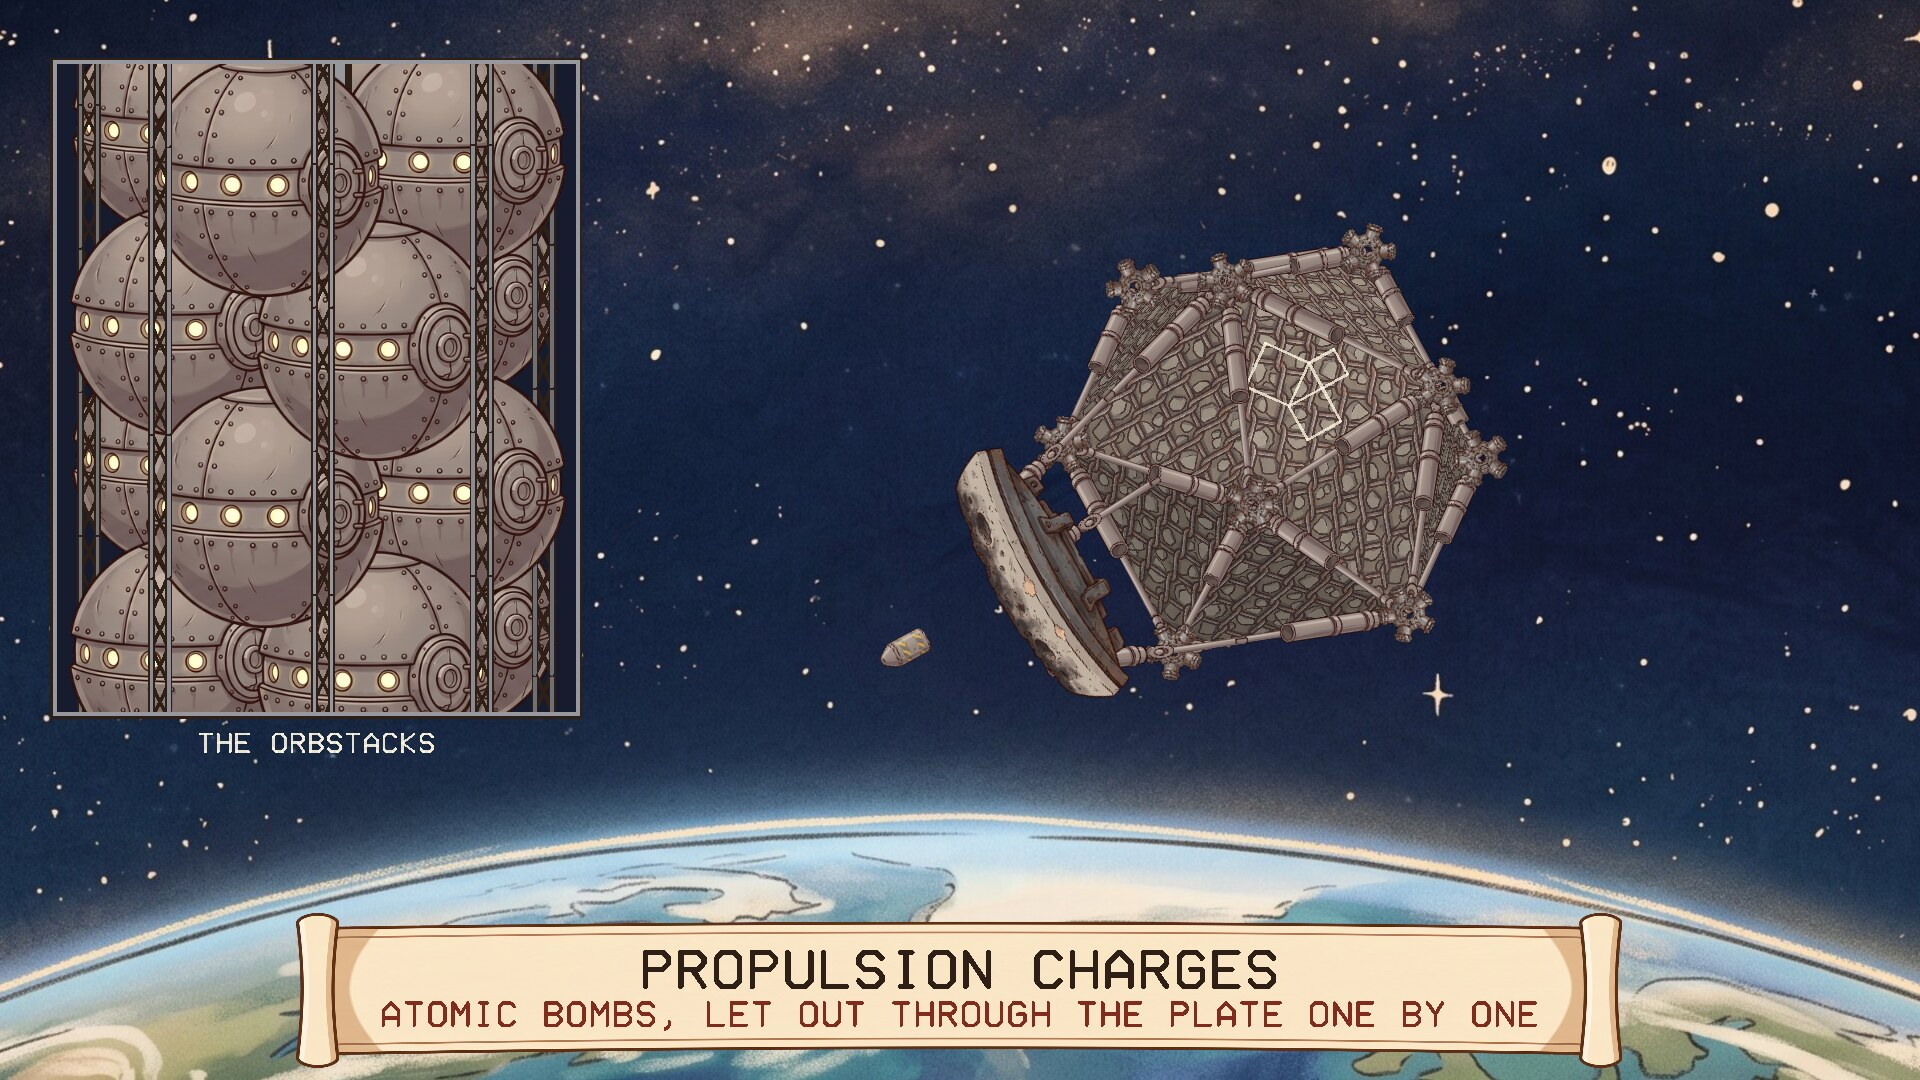
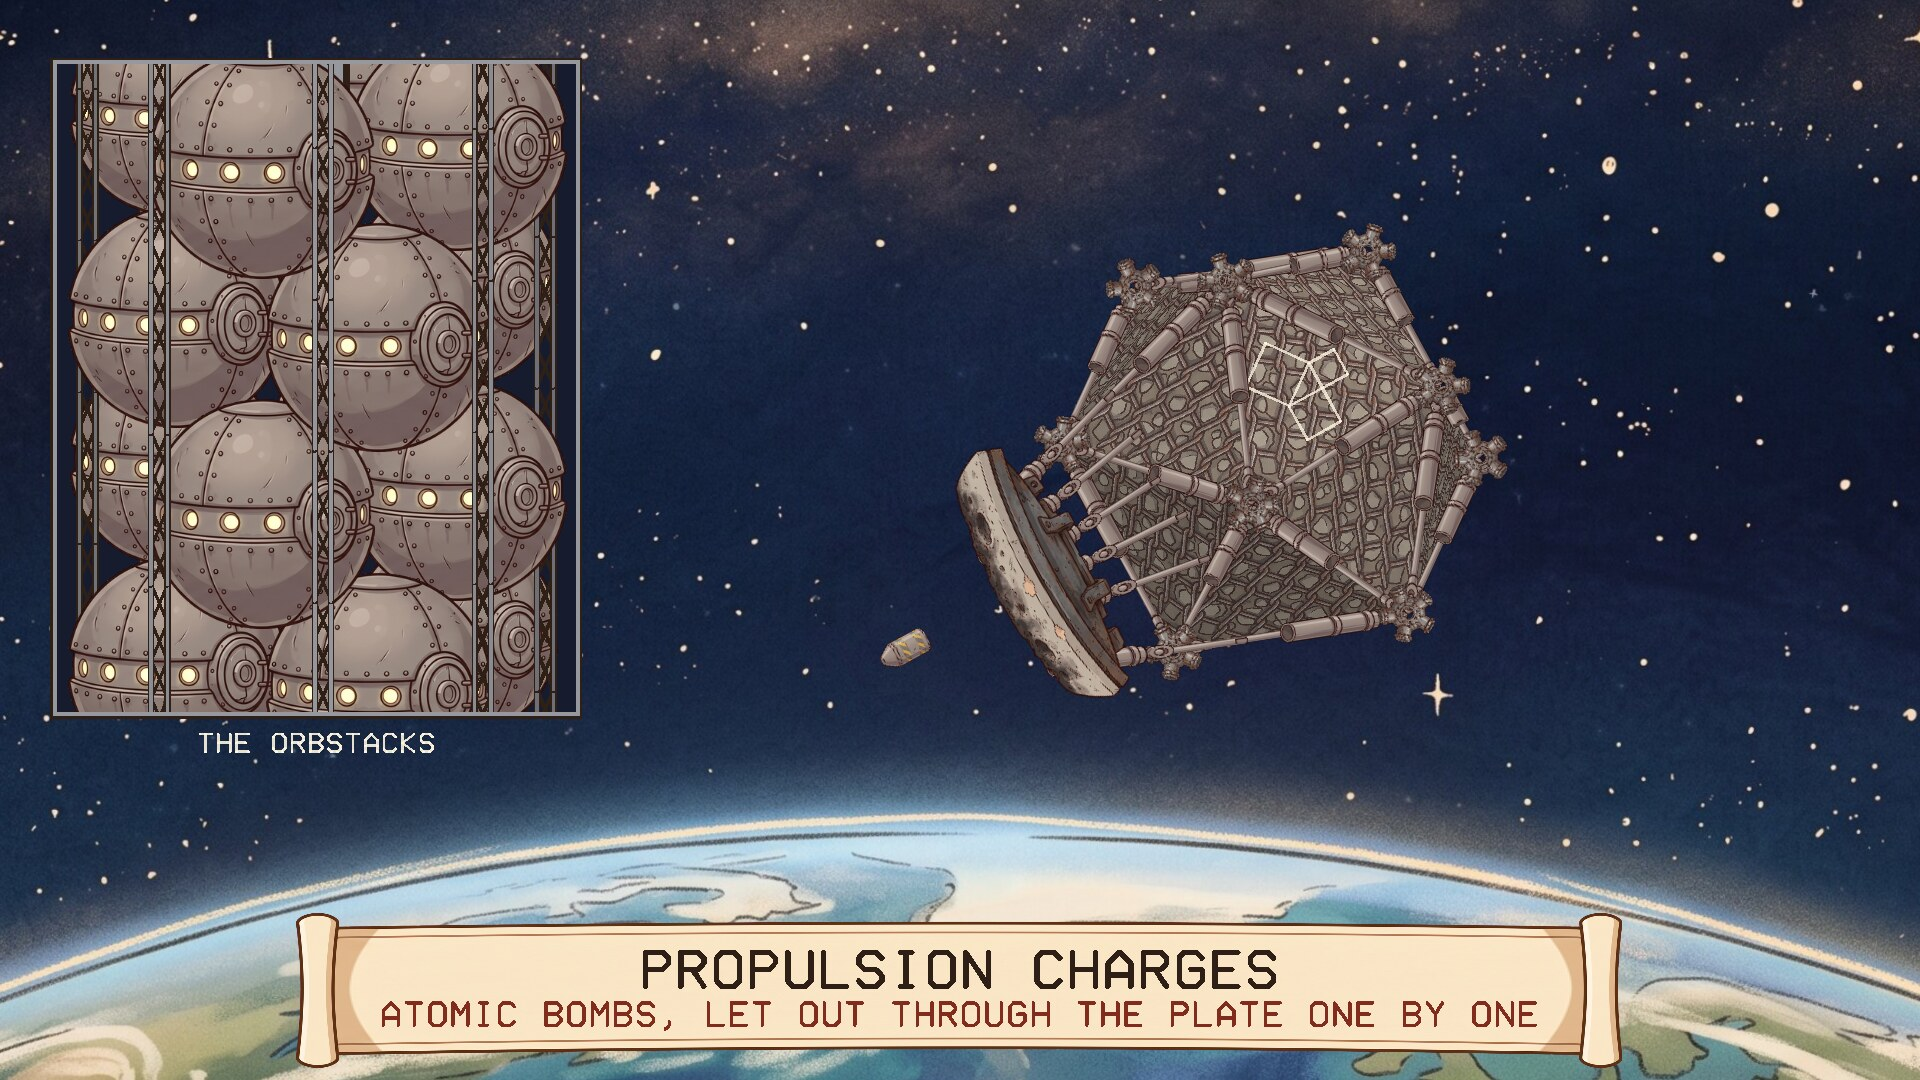
A cut-open orb with houseboats, tubes to the Core, a ring of shock absorbers behind the plate

diff --git a/src/urnud.c b/src/urnud.c
@@ -54,6 +54,7 @@ ART(joint, "joint.png")
 ART(gravel, "gravel.jpg")
 ART(plate, "plate.png")
 ART(orb, "orb.png")
+ART(orbcut, "orbcut.png")
 ART(hub, "hub.png")
 ART(charge, "charge.png")
 ART(cyl, "cyl.png")
@@ -62,7 +63,7 @@ ART(flash, "flash.jpg")
 ART(plasma, "plasma.jpg")
 ART(vapour, "vapour.jpg")
 
-enum { SP_SPACE, SP_BANNER, SP_JOINT, SP_GRAVEL, SP_PLATE, SP_ORB, SP_HUB, SP_CHARGE, SP_CYL, SP_ROD, SP_FLASH, SP_PLASMA, SP_VAPOUR, NSPRITE };
+enum { SP_SPACE, SP_BANNER, SP_JOINT, SP_GRAVEL, SP_PLATE, SP_ORB, SP_ORBCUT, SP_HUB, SP_CHARGE, SP_CYL, SP_ROD, SP_FLASH, SP_PLASMA, SP_VAPOUR, NSPRITE };
 static struct { const unsigned char *file, *end; int w, h; unsigned char *px; } sprite[NSPRITE] = {
     {art_space, art_space_end},
     {art_banner, art_banner_end},
@@ -70,6 +71,7 @@ static struct { const unsigned char *file, *end; int w, h; unsigned char *px; } 
     {art_gravel, art_gravel_end},
     {art_plate, art_plate_end},
     {art_orb, art_orb_end},
+    {art_orbcut, art_orbcut_end},
     {art_hub, art_hub_end},
     {art_charge, art_charge_end},
     {art_cyl, art_cyl_end},
@@ -555,7 +557,7 @@ static void draw_core(double px, double py, double pw, double ph)
     double cx = px + pw / 2, cy = py + ph / 2;
     /* we look from the side and a little from above; z is towards us */
     double tilt = 1.3, ay = -sin(tilt), az = cos(tilt), vy = az, vz = sin(tilt);
-    double rho = ph / 5.7, reach = rho * 1.4142 * 0.9, gap = rho * 1.682 * 0.9, tower = rho * 2.0;
+    double rho = ph / 6.0, reach = rho * 1.4142, gap = rho * 1.682, tower = rho * 2.12;
     enum { NSEG = 12, NTOW = 8, TSEG = 6, NITEM = 16 + NSEG + NTOW * TSEG };
     Item it[NITEM];
     int ni = 0;
@@ -576,8 +578,12 @@ static void draw_core(double px, double py, double pw, double ph)
             double along = (n / 4 - 1.5) * gap, a = spin + (n % 4) * M_PI / 2 + (n / 4) * M_PI / 4;
             double x = cx + cos(a) * reach, y = cy + ay * along + vy * sin(a) * reach;
             double size = 1 + 0.07 * sin(a);
+            /* the tube that joins it to the Core */
+            line(cx, cy + ay * along, x, y, rho * 0.36, col(INK, 1));
+            line(cx, cy + ay * along, x, y, rho * 0.26, col(STEEL, 1));
             flush(ren);
-            turned(SP_ORB, x, y, 2 * rho * size, 0);
+            /* one orb is cut open on the side that faces us as it comes round */
+            turned(n == 9 && sin(a) > 0 ? SP_ORBCUT : SP_ORB, x, y, 2 * rho * size, 0);
         } else if (it[i].kind == 1) {
             double t0 = -ce + it[i].n * 2 * ce / NSEG - 0.5, t1 = t0 + 2 * ce / NSEG + 1;
             line(cx, cy + ay * t0, cx, cy + ay * t1, rho * 0.62, col(INK, 1));
@@ -630,9 +636,12 @@ static void draw_scene(SDL_Renderer *r, int w, int h)
     draw_frame();
     double px = plate_x;
     /* the plate's shock absorbers, from its back to the corners of the stern face */
-    for (int i = 0; i < 3; i++) {
-        double from[3] = {px + 0.035, pos[i][1] * 0.82, pos[i][2] * 0.82};
+    for (int i = 0; i < 3; i++) { /* drawn in a ring of six: one to each corner and one to the middle of each edge */
+        int j = (i + 1) % 3;
+        double mid[3] = {(pos[i][0] + pos[j][0]) / 2, (pos[i][1] + pos[j][1]) / 2, (pos[i][2] + pos[j][2]) / 2};
+        double from[3] = {px + 0.035, pos[i][1] * 0.82, pos[i][2] * 0.82}, fromm[3] = {px + 0.035, mid[1] * 0.82, mid[2] * 0.82};
         strut(from, pos[i]);
+        strut(fromm, mid);
     }
     /* charges on their way out */
     for (int i = 0; i < NFLY; i++) if (fly[i] >= 0) {

diff --git a/tools/make_sprites.py b/tools/make_sprites.py
@@ -79,6 +79,9 @@ def main():
     p = trim(key(load(f"{SRC}/plate.jpeg")))
     save(p, round(p.shape[1] * 700 / p.shape[0]), 700, f"{OUT}/plate.png")
     print("plate")
+    p = trim(key(load(f"{SRC}/orbcut.jpeg")))  # an orb cut open, with the water and the houseboats
+    save(p, round(p.shape[1] * 460 / p.shape[0]), 460, f"{OUT}/orbcut.png")
+    print("orbcut")
     # the frame: the joint at each corner, and the gravel skin as a square of texture
     got = pieces(key(load(f"{SRC}/frame.jpeg")), 1)
     j = trim(got[0])

diff --git a/README.md b/README.md
@@ -24,13 +24,15 @@ One change of course, about a minute and a half, then another at a different ang
 - **In orbit.** The ship coasts and Arbre slides by underneath. A panel shows the
   orbstacks inside, close to: four levels of four orbs about the Core, the four
   in a level touching, and each level turned an eighth of a turn so that it nests
-  in the hollows of the last, with lattice towers up the outside. They go round
+  in the hollows of the last, with a tube from each orb to the Core and lattice
+  towers up the outside. One orb is cut open on the side that comes round to
+  face you: half full of water, with houseboats and their gardens afloat on it. They go round
   the Core as one piece, passing behind it and in front of it, and never stop.
 - **The turn.** No thrusters. Counterweights run round tracks inside the ship,
   out of sight, and the ship swings round the other way.
 - **The burn.** A charge drops out through the plate every second or two, flies a
   little way aft and goes off. The plasma hits the plate, and the plate's ablative
-  layer glows and boils off. The plate is driven in on its three shock
+  layer glows and boils off. The plate is driven in on its ring of shock
   absorbers, rods sliding into cylinders; they push on the corners of the stern
   face, and the squeeze runs forward through the frame to the bow. The stars begin to slide by.
 - **The new course.** The burn ends and the ship coasts again.
@@ -71,7 +73,7 @@ Packages are on the [releases page](../../releases).
 
 ### Windows
 
-Run `DabanUrnud-Setup-1.0.9.exe`. It asks for administrator rights, because Windows
+Run `DabanUrnud-Setup-1.0.10.exe`. It asks for administrator rights, because Windows
 only lists screensavers that are in its own system folder. After that "The Daban
 Urnud" is in Screen Saver Settings with the others, already selected. Uninstall from
 Apps.
@@ -80,11 +82,11 @@ Apps.
 
 **Fedora, Nobara** (built on Fedora 44):
 
-    sudo dnf install ./daban-urnud-1.0.9-1.fc44.x86_64.rpm
+    sudo dnf install ./daban-urnud-1.0.10-1.fc44.x86_64.rpm
 
 **Debian, Ubuntu, Mint** (Ubuntu 24.04 / Debian 13 or later):
 
-    sudo apt install ./daban-urnud_1.0.9_amd64.deb
+    sudo apt install ./daban-urnud_1.0.10_amd64.deb
 
 From your next login it starts by itself after five minutes idle, and any key or
 mouse movement ends it. To start the watcher without logging out, or to change the
@@ -135,7 +137,7 @@ everything they need:
 MIT. *Anathem* and the Daban Urnud are Neal Stephenson's; this is an unofficial fan
 project.
 
-The pictures (the plate, the joints, the gravel, the struts, the orb, the hub, the charge,
+The pictures (the plate, the joints, the gravel, the struts, the orbs, the hub, the charge,
 the blasts, Arbre and the scroll) were drawn with Google Gemini and
 prepared by `tools/make_sprites.py`. Images are decoded with
 [stb_image](https://github.com/nothings/stb) (public domain).
